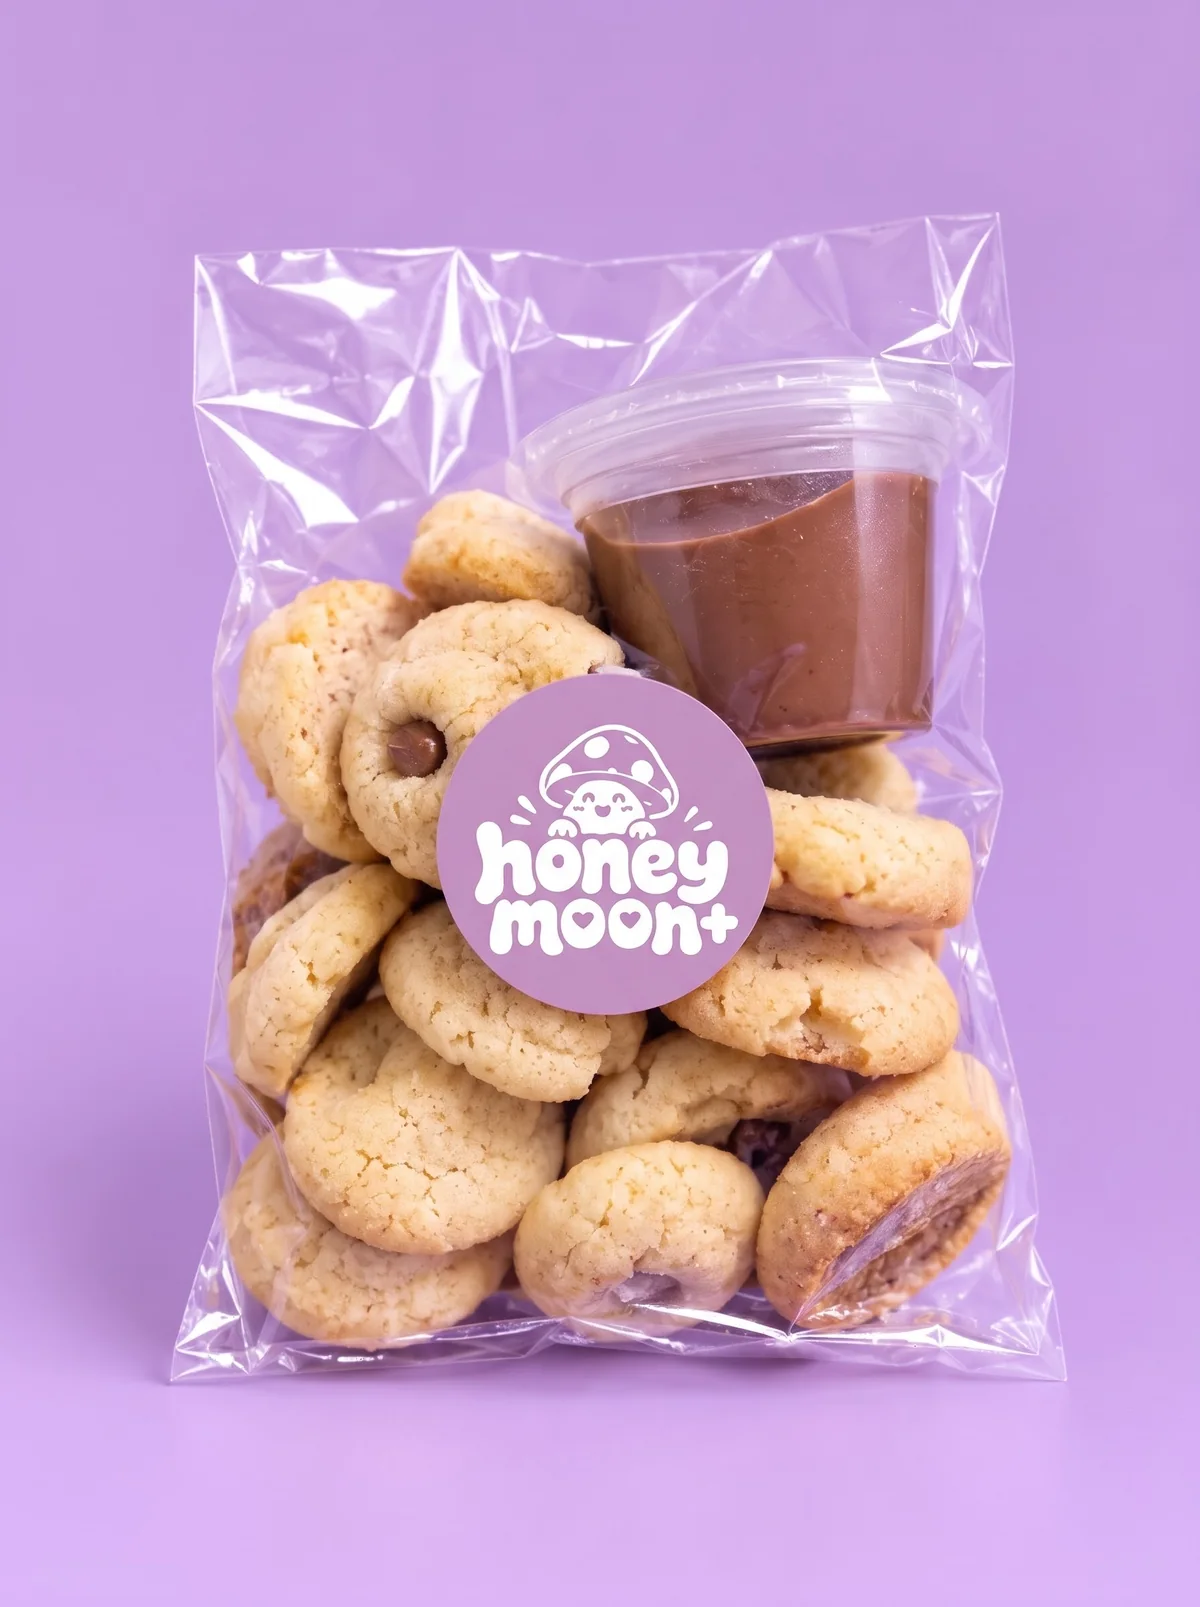
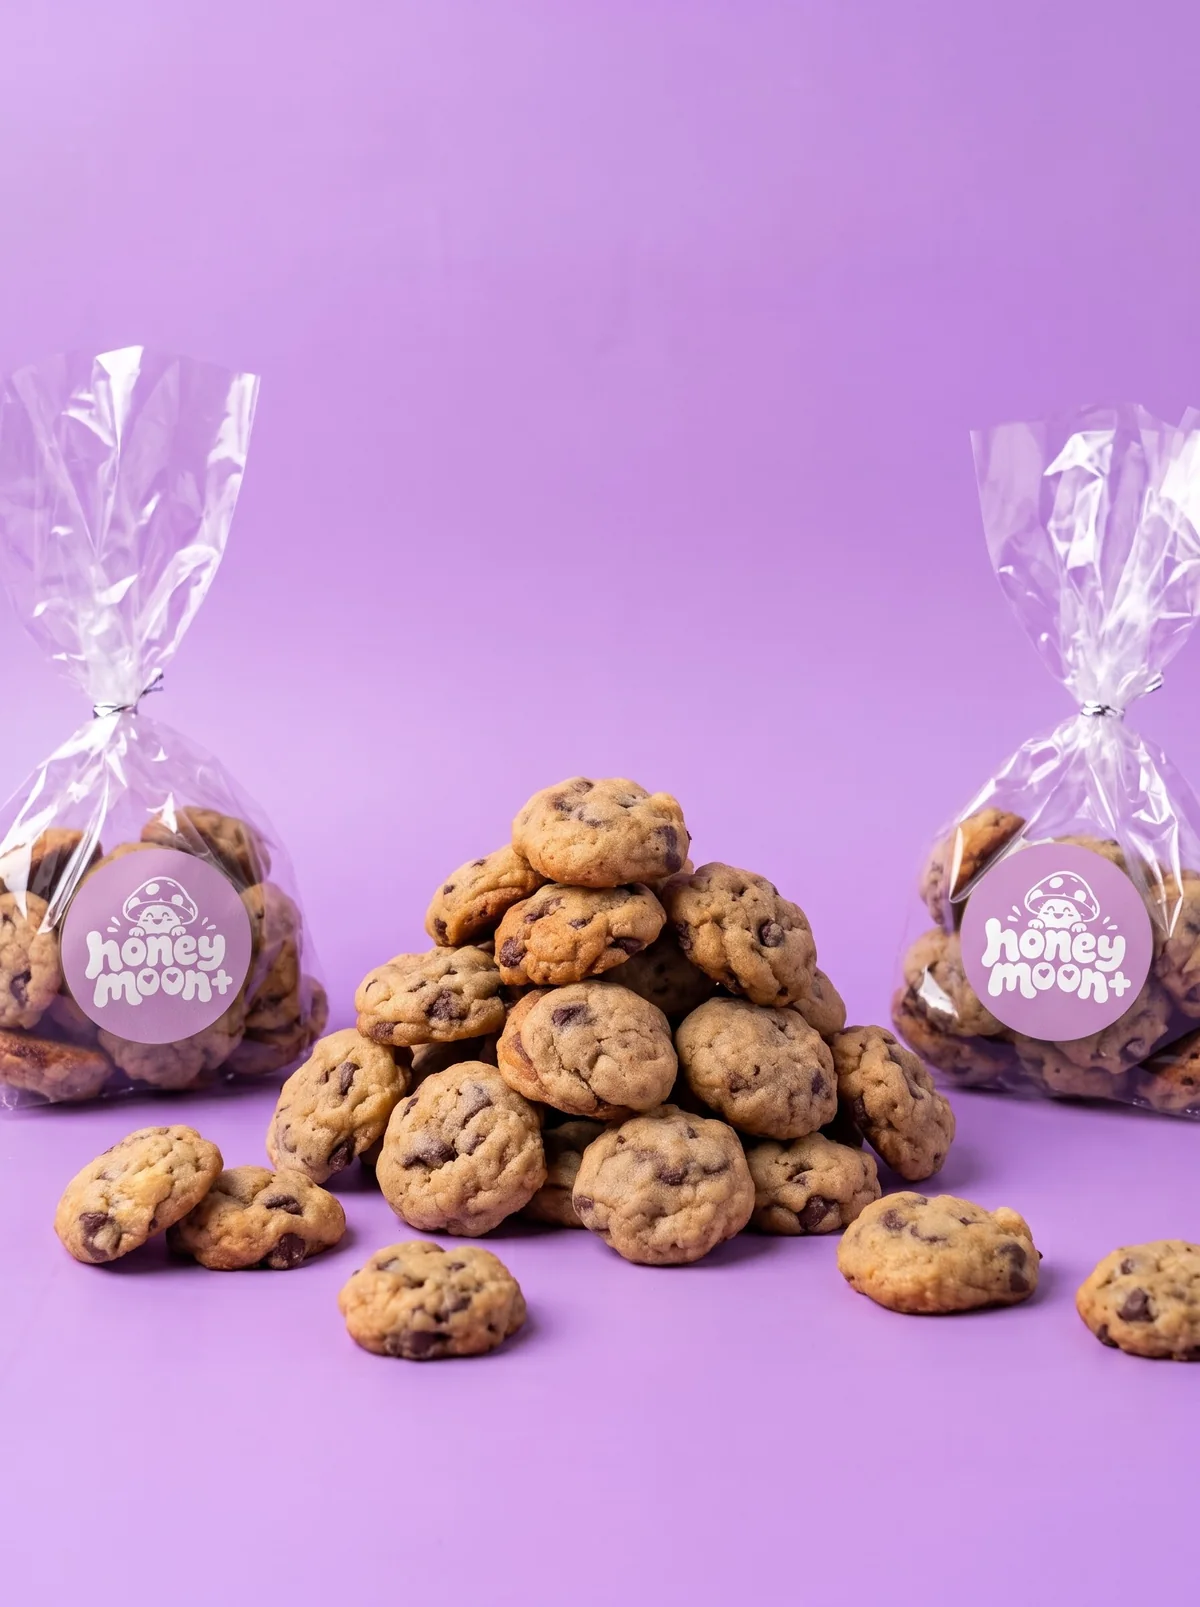
Fotos nuevas de galletas y paveé de Milo, mini donas y ajustes en celular (#19)
* Mini donas: dibujo del vaso con 7 donitas; galletas con chocolate tipo Nutella

- Mini donas: la imagen ahora muestra lo que dice la descripción (vaso
  de 12 onz con 7 mini donitas), con donitas glaseadas y chispas como
  las reales, en vertical 4:5 y fondo lila como las fotos. La foto de
  las donitas sueltas queda en assets/img/originales/.
- Galletas: "…en bolsita de 150 g, con un vasito de chocolate tipo
  Nutella." (sale en la foto).

Claude-Session: https://claude.ai/code/session_01GHyyVr5iuHvK63zJVmzS7n

* Fotos en celular: cuadradas, sin cortar el producto y detalle más compacto

- Tarjetas en celular: foto 1:1 (antes 4:5, 458 px de alto): se ve el
  producto completo y el menú queda ~370 px más corto.
- Detalle en celular: foto cuadrada de máx. 280 px, centrada, para que
  tamaños y toppings se vean sin bajar tanto.
- Encuadre por foto (campo `posicion`): vasos de fresas y bolsita de
  galletas sin cortes; por defecto center 60%.
- El dibujo de las mini donas recorta (slice) en vez de dejar franjas.

Claude-Session: https://claude.ai/code/session_01GHyyVr5iuHvK63zJVmzS7n

* Fotos nuevas: galletas en bolsita y paveé de Milo; la foto del paveé cambia con el topping

- galletas-mini.webp: nueva foto (bolsitas con sticker y galletas mini)
- pave-milo.webp: paveé con Untable de Milo, foto de la tarjeta
- eleccion.opciones[].imagen/fotoNota/posicion: al elegir Leche Klim se ve su foto
- originales en assets/img/originales/
[…]

diff --git a/assets/js/illustrations.js b/assets/js/illustrations.js
@@ -109,30 +109,57 @@
       </g>`;
   }
 
-  /* ---------- Vaso de 12 onz con 7 mini donitas ---------- */
-  function donas(c, uid) {
-    const vasoPath = "M62 84 L178 84 L166 184 Q120 192 74 184 Z";
-    const dona = (x, y, s, rot = 0) => `
-      <g transform="translate(${x} ${y}) rotate(${rot}) scale(${s})">
-        <ellipse rx="20" ry="13" fill="#e6a861" stroke="${K}" stroke-width="3.4"/>
-        <path d="M-16 -2 C-17 -11 17 -11 16 -2 C15 2 12 1 10 3 C8 6 6 2 3 4 C0 7 -2 3 -5 5 C-8 7 -10 2 -12 3 C-15 4 -16 1 -16 -2Z" fill="#fff4f1" stroke="${K}" stroke-width="2" stroke-linejoin="round"/>
-        <ellipse rx="5.5" ry="3.2" cy="-3.5" fill="#e6a861" stroke="${K}" stroke-width="2"/>
-        <ellipse rx="3.4" ry="1.6" cy="-3" fill="#c98a3c"/>
-      </g>`;
-    // 3 arriba asomadas + 4 dentro del vaso transparente = 7
-    const dentro = [[100, 161, -6], [141, 160, 4], [102, 122, 5], [139, 121, -6]];
-    const arriba = [[94, 78, -14], [146, 78, 14], [120, 66, 0]];
+  /* ---------- Vaso de 12 onz con 7 mini donitas (vertical 4:5, como las fotos) ---------- */
+  // Mini donitas glaseadas como las de Honeymoon: rosado, blanco y chocolate,
+  // con chispas de colores, chispas de chocolate o confites
+  const GLASEADOS = { rosa: "#f48fb1", blanco: "#fff6ef", choco: "#6b3a22" };
+  const CHISPAS = ["#ff5252", "#ffd740", "#40c4ff", "#69f0ae", "#ff80ab", "#b388ff"];
+  const PUNTOS_DONA = [[-13, -6, 20], [-8, -10, -30], [-1, -11, 60], [6, -10, 10], [12, -7, -45], [15, -3, 30], [-15, -1, 70], [-10, 2, -15], [9, 2, 40], [3, 3, -60]];
+  function donita(x, y, s, r, glaseado, adorno) {
+    const chispas = PUNTOS_DONA.map(([a, b, g], i) => {
+      if (adorno === "confites") return i % 2 ? "" : `<circle cx="${a}" cy="${b}" r="2.4" fill="${CHISPAS[i % CHISPAS.length]}" stroke="${K}" stroke-width=".6"/>`;
+      const color = adorno === "choco" ? "#3b1f12" : CHISPAS[i % CHISPAS.length];
+      return `<rect x="${a - 2.4}" y="${b - .8}" width="4.8" height="1.6" rx=".8" fill="${color}" transform="rotate(${g} ${a} ${b})"/>`;
+    }).join("");
     return `
-      ${decoracion()}
-      <defs><clipPath id="cp-${uid}"><path d="${vasoPath}"/></clipPath></defs>
+      <g data-dona transform="translate(${x} ${y}) rotate(${r}) scale(${s})">
+        <ellipse rx="22" ry="14" fill="#e3ad6c" stroke="${K}" stroke-width="2.6"/>
+        <path d="M-19 -3 C-20 -13 20 -13 19 -3 C18 2 14 1 12 4 C10 7 7 2 4 5 C1 8 -2 3 -5 5 C-8 8 -11 2 -14 4 C-17 4 -19 1 -19 -3Z"
+          fill="${GLASEADOS[glaseado]}" stroke="${K}" stroke-width="1.8" stroke-linejoin="round"/>
+        ${chispas}
+        <ellipse cy="-3" rx="6.5" ry="3.8" fill="#c98a4c" stroke="${K}" stroke-width="1.8"/>
+        <path d="M-12 -8 q4 -3 9 -3" stroke="#fff" stroke-width="1.6" stroke-linecap="round" fill="none" opacity=".6"/>
+      </g>`;
+  }
+  function donas(c, uid) {
+    const vaso = "M56 136 L184 136 L168 262 Q120 271 72 262 Z";
+    // 4 dentro del vaso transparente + 3 asomadas arriba = 7
+    const dentro = [[98, 228, -6, "rosa", "chispas"], [142, 226, 5, "blanco", "choco"], [96, 182, 4, "blanco", "chispas"], [144, 181, -5, "rosa", "confites"]];
+    const arriba = [[86, 126, -18, "blanco", "chispas"], [154, 126, 17, "blanco", "confites"], [120, 108, 0, "rosa", "chispas"]];
+    return `
+      <defs>
+        <linearGradient id="fondo-${uid}" x1="0" y1="0" x2="0" y2="1"><stop offset="0" stop-color="#c09cdd"/><stop offset="1" stop-color="#dcc1f4"/></linearGradient>
+        <clipPath id="cp-${uid}"><path d="${vaso}"/></clipPath>
+      </defs>
+      <rect width="240" height="300" fill="url(#fondo-${uid})"/>
+      <g transform="translate(-18 -54) scale(1.15)">
+      <ellipse cx="122" cy="268" rx="66" ry="9" fill="#4a1f48" opacity=".16"/>
       <g clip-path="url(#cp-${uid})">
-        <rect x="56" y="84" width="130" height="108" fill="#fff" fill-opacity=".6"/>
-        ${dentro.map(([x, y, r]) => dona(x, y, 1.05, r)).join("")}
-        <path d="M80 96 L88 176" stroke="#fff" stroke-width="6" stroke-linecap="round" opacity=".75"/>
+        <rect x="50" y="136" width="140" height="140" fill="#fff" fill-opacity=".45"/>
+        ${dentro.map(([x, y, r, g, d]) => donita(x, y, 1.15, r, g, d)).join("")}
       </g>
-      ${arriba.map(([x, y, r]) => dona(x, y, 1, r)).join("")}
-      <path d="${vasoPath}" fill="none" stroke="${K}" stroke-width="4" stroke-linejoin="round"/>
-      <rect x="58" y="82" width="124" height="9" rx="4.5" fill="#fffdf7" stroke="${K}" stroke-width="3.4"/>`;
+      ${arriba.map(([x, y, r, g, d]) => donita(x, y, 1.12, r, g, d)).join("")}
+      <path d="${vaso}" fill="#fff" fill-opacity=".14" stroke="${K}" stroke-width="3.4" stroke-linejoin="round"/>
+      <path d="M74 152 L86 252" stroke="#fff" stroke-width="6" stroke-linecap="round" opacity=".7"/>
+      <rect x="52" y="131" width="136" height="10" rx="5" fill="#fffdf7" fill-opacity=".92" stroke="${K}" stroke-width="3"/>
+      <g transform="translate(120 206)">
+        <circle r="23" fill="#c48ebf" stroke="#fff" stroke-width="2.5"/>
+        <path d="M-14 1 C-14 -14 14 -14 14 1 Z" fill="#fff"/>
+        <circle cx="-6" cy="-7" r="2.4" fill="#c48ebf"/><circle cx="4" cy="-9" r="2" fill="#c48ebf"/><circle cx="9" cy="-3" r="1.8" fill="#c48ebf"/>
+        <rect x="-8" y="0" width="16" height="12" rx="5" fill="#fff"/>
+        <path d="M-4.5 4.5 q1.5 -1.6 3 0 M1.5 4.5 q1.5 -1.6 3 0 M-2 8 q2 2 4 0" stroke="#c48ebf" stroke-width="1.3" fill="none" stroke-linecap="round"/>
+      </g>
+      </g>`;
   }
 
   /* ---------- Íconos de toppings (para la tarjeta y el modal) ---------- */
@@ -187,6 +214,9 @@
       donas: () => donas(cfg, uid)
     };
     const cuerpo = (dibujos[cfg.tipo] || dibujos.pave)();
-    return `<svg viewBox="0 0 240 200" xmlns="http://www.w3.org/2000/svg" role="img" aria-hidden="true" focusable="false">${cuerpo}</svg>`;
+    const vista = cfg.tipo === "donas" ? "0 0 240 300" : "0 0 240 200"; // las donas, en vertical como las fotos
+    // Las donas traen su propio fondo: recortan en vez de dejar franjas si el marco es más bajo
+    const ajuste = cfg.tipo === "donas" ? ' preserveAspectRatio="xMidYMid slice"' : "";
+    return `<svg viewBox="${vista}"${ajuste} xmlns="http://www.w3.org/2000/svg" role="img" aria-hidden="true" focusable="false">${cuerpo}</svg>`;
   };
 })();

diff --git a/assets/js/menu.js b/assets/js/menu.js
@@ -8,14 +8,17 @@
               (foto de ese tamaño: en el detalle, la foto cambia al elegirlo).
    - adiciones: nombre del grupo de HM_ADICIONES que acepta (toppings con precio y cantidad;
                 cada topping tiene `max` y, opcional, `limite`, `icono` y `foto`)
-   - eleccion: { titulo, detalle, opciones: [{ id, nombre, ilustracion? }] } → el cliente elige
-               una opción incluida en el precio (ej. el topping del paveé). Si la opción trae
-               `ilustracion`, el dibujo cambia al elegirla.
+   - eleccion: { titulo, detalle, opciones: [{ id, nombre, imagen?, fotoNota?, posicion?, ilustracion? }] }
+               → el cliente elige una opción incluida en el precio (ej. el topping del paveé).
+               Si la opción trae `imagen`, la foto del detalle cambia al elegirla (si no, se usa
+               la foto del producto).
    - encargo: true si todo el producto se hace por encargo (ver diasEncargo en config.js)
    - temporada: { desde: "MM-DD", hasta: "MM-DD", texto } → solo se puede pedir en esas fechas
    - ilustracion: dibujo generado (tipo, colores, topping)  ó  imagen: ruta a una foto
    - fotoReferencia: true muestra la etiqueta "Foto de referencia" sobre la imagen;
      fotoNota: "texto" muestra ese texto en su lugar (ej. qué topping sale en la foto)
+   - posicion (producto o tamaño): encuadre de la foto si el producto no queda centrado,
+     ej. "center 70%" (por defecto "center 60%")
    - notaPlaceholder: texto de ejemplo para la nota del producto
    - destacado: true para mostrarlo en una tarjeta ancha (foto a un lado)
    - disponible: false para mostrarlo como "Próximamente"
@@ -45,12 +48,13 @@ window.HM_ADICIONES = {
       nombre: "Fresas con crema",
       descripcion: "🍓Capas de nuestra crema suave y cremosa, fresas frescas, glaseado de fresa, dulce de leche, leche condensada y galleta Oreo. ¡Una combinación dulce e irresistible que puedes personalizar con tu topping favorito!",
       tamanos: [
-        { id: "9oz", nombre: "9 onz", detalle: "Pequeña", precio: 14000, imagen: "assets/img/fresas-9onz.webp" },
-        { id: "12oz", nombre: "12 onz", detalle: "Mediana", precio: 18000, imagen: "assets/img/fresas-12onz.webp" }
+        { id: "9oz", nombre: "9 onz", detalle: "Pequeña", precio: 14000, imagen: "assets/img/fresas-9onz.webp", posicion: "center 70%" },
+        { id: "12oz", nombre: "12 onz", detalle: "Mediana", precio: 18000, imagen: "assets/img/fresas-12onz.webp", posicion: "center 70%" }
       ],
       adiciones: "fresas",
       destacado: true, // tarjeta ancha, primera del menú
       imagen: "assets/img/fresas-9onz.webp", // foto real (vaso de 9 onz)
+      posicion: "center 70%",
       fondo: FONDO
     },
     {
@@ -63,26 +67,29 @@ window.HM_ADICIONES = {
         detalle: "Topping incluido: Oreo, Untable de Milo o Leche Klim",
         opciones: [
           { id: "oreo", nombre: "Oreo" },
-          { id: "milo", nombre: "Untable de Milo" },
-          { id: "klim", nombre: "Leche Klim" }
+          { id: "milo", nombre: "Untable de Milo", imagen: "assets/img/pave-milo.webp", fotoNota: "Foto: con topping de Untable de Milo", posicion: "center 62%" },
+          { id: "klim", nombre: "Leche Klim", imagen: "assets/img/pave-klim.webp", fotoNota: "Foto: con topping de leche Klim" }
         ]
       },
-      imagen: "assets/img/pave-klim.webp",
-      fotoNota: "Foto: con topping de leche Klim"
+      // Foto de la tarjeta y de las opciones sin foto propia (Oreo)
+      imagen: "assets/img/pave-milo.webp",
+      fotoNota: "Foto: con topping de Untable de Milo",
+      posicion: "center 62%"
     },
     {
       id: "galletas",
       nombre: "Galletas",
-      descripcion: "Galletas mini con chips de chocolate, en bolsita de 150 g.",
+      descripcion: "Galletas mini con chips de chocolate, en bolsita de 150 g, con un vasito de chocolate tipo Nutella.",
       tamanos: [{ id: "bolsita", nombre: "Bolsita 150 g", detalle: "Mini chips de chocolate", precio: 15000 }],
-      imagen: "assets/img/galletas-mini.webp"
+      imagen: "assets/img/galletas-mini.webp", // bolsitas con el sticker y galletas mini
+      posicion: "center 62%"
     },
     {
       id: "mini-donas",
       nombre: "Mini donas",
       descripcion: "Vaso de 12 onz con 7 mini donitas.",
       tamanos: [{ id: "vaso", nombre: "Vaso 12 onz", detalle: "7 mini donitas", precio: 15000 }],
-      imagen: "assets/img/mini-donas.webp"
+      ilustracion: { tipo: "donas", fondo: "#cdaee8" } // dibujo del vaso con las 7 donitas (sin foto real aún)
     }
   ];
 })();

diff --git a/assets/js/app.js b/assets/js/app.js
@@ -113,13 +113,16 @@
   // o, sin foto, el dibujo (el de la opción elegida, si la hay)
   function imagenDe(p, opcion, tamano) {
     const t = tamano ? p.tamanos.find((x) => x.id === tamano) : null;
-    if (t && t.imagen) return { imagen: t.imagen, nota: t.fotoNota || "" };
-    if (p.imagen) return { imagen: p.imagen, nota: p.fotoNota || (p.fotoReferencia ? "Foto de referencia" : "") };
+    if (t && t.imagen) return { imagen: t.imagen, nota: t.fotoNota || "", pos: t.posicion };
+    const o = getOpcion(p, opcion);
+    if (o && o.imagen) return { imagen: o.imagen, nota: o.fotoNota || "", pos: o.posicion };
+    if (p.imagen) return { imagen: p.imagen, nota: p.fotoNota || (p.fotoReferencia ? "Foto de referencia" : ""), pos: p.posicion };
     return { ilustracion: ilustracionDe(p, opcion) };
   }
   function media(p, opcion, tamano) {
     const v = imagenDe(p, opcion, tamano);
-    return v.imagen ? `<img src="${esc(v.imagen)}" alt="" loading="lazy">` : window.HM_ILUSTRACION(v.ilustracion);
+    if (!v.imagen) return window.HM_ILUSTRACION(v.ilustracion);
+    return `<img src="${esc(v.imagen)}" alt="" loading="lazy"${v.pos ? ` style="object-position:${esc(v.pos)}"` : ""}>`;
   }
   function etiquetaFoto(p, opcion, tamano) {
     const v = imagenDe(p, opcion, tamano);
@@ -511,6 +514,7 @@
     pintarMedia();
     // Precarga las fotos de los otros tamaños: al cambiar de tamaño la foto cambia sin espera
     p.tamanos.forEach((t) => { if (t.imagen) new Image().src = t.imagen; });
+    if (p.eleccion) p.eleccion.opciones.forEach((o) => { if (o.imagen) new Image().src = o.imagen; });
     pintarToppings();
     $("#productoNota").value = "";
     $("#productoNota").placeholder = p.notaPlaceholder || "Ej: alguna indicación para tu pedido…";

diff --git a/assets/css/styles.css b/assets/css/styles.css
@@ -275,7 +275,7 @@ h1, h2, h3, h4, .hm-display {
   padding: .15rem .5rem; border-radius: 999px; letter-spacing: .02em;
 }
 /* Fotos verticales de producto: el producto queda en la mitad baja, así nunca se corta el vaso */
-.hm-card-media img, .hm-product-media img, .hm-cart-thumb img { object-position: center 72%; }
+.hm-card-media img, .hm-product-media img, .hm-cart-thumb img { object-position: center 60%; }
 .hm-card .hm-ref { top: .6rem; bottom: auto; } /* abajo la tapa la etiqueta del nombre */
 .hm-card-body { padding: 0 1.15rem 1.2rem; display: flex; flex-direction: column; flex: 1; }
 /* Nombre como etiqueta del menú impreso, montada sobre la foto */
@@ -646,10 +646,10 @@ body.has-cart .hm-fab-wa { bottom: 5.25rem; }
   .hm-sticker { font-size: .76rem; padding: .35rem .6rem; }
   .hm-sticker.s1 { left: -10%; }
   .hm-sticker.s2 { right: -10%; }
-  .hm-card-media { aspect-ratio: 4 / 5; }
+  .hm-card-media { aspect-ratio: 1 / 1; } /* en celular, cuadrada: el producto completo sin tarjetas tan largas */
   .hm-card { outline: 0; }
   .hm-card:focus-visible { outline: 3px solid var(--hm-plum); outline-offset: 3px; }
-  .hm-product-media { aspect-ratio: 4 / 5; }
+  .hm-product-media { aspect-ratio: 1 / 1; max-width: 280px; margin-inline: auto; } /* deja ver tamaños y toppings */
   .hm-card-note { font-size: .72rem; margin: -.2rem 0 .5rem; }
   #productoAgregar { white-space: nowrap; }
 }

diff --git a/README.md b/README.md
@@ -43,10 +43,12 @@ En `assets/js/menu.js`:
   - `tamanos`: con precio y, opcional, `detalle` ("Pequeña", "7 mini donitas") y `encargo: true`.
   - `adiciones`: nombre del grupo de toppings que acepta (el cliente suma porciones con + y −; el modal bloquea lo que no cumple los límites y explica por qué).
   - `destacado: true`: tarjeta ancha, con la foto al lado en computador (hoy, Fresas con crema).
-  - `eleccion`: una opción incluida en el precio que el cliente debe elegir, como el topping del paveé (Galleta Oreo, Galleta Milo o Leche Klim). Si la opción trae `ilustracion`, el dibujo cambia al elegirla.
+  - `eleccion`: una opción incluida en el precio que el cliente debe elegir, como el topping del paveé (Oreo, Untable de Milo o Leche Klim). Si la opción trae `imagen` (y opcional `fotoNota` y `posicion`), la foto del detalle cambia al elegirla; si no, se usa la foto del producto.
   - `ilustracion` (dibujo SVG de `illustrations.js`: `pave`, `bolsita`, `donas`) o `imagen` (foto). Para fotos reales, guarda la imagen en `assets/img/` y usa `imagen: "assets/img/mi-foto.webp"`. Las fotos de producto son verticales (3:4, fondo lila) y van en WebP de 1200 px de ancho para que carguen rápido; las originales quedan en `assets/img/originales/`.
   - Un tamaño puede tener su propia `imagen`: en el detalle la foto cambia al elegirlo (Fresas con crema: 9 onz y 12 onz).
-  - `fotoNota` (opcional): texto sobre la foto, por ejemplo qué topping sale (Paveé: "Foto: con topping de leche Klim").
+  - `posicion` (opcional, producto o tamaño): encuadre de la foto, ej. `"center 70%"`, para que el producto no se corte en los marcos más bajos (en celular las fotos van cuadradas).
+  - `fotoNota` (opcional): texto sobre la foto, por ejemplo qué topping sale (Paveé: "Foto: con topping de Untable de Milo"; la opción Leche Klim muestra su propia foto).
+  - Mini donas usan el dibujo `donas` (vaso de 12 onz con 7 mini donitas, vertical como las fotos) hasta tener una foto real del vaso; la foto de las donitas sueltas está en `assets/img/originales/`.
   - `encargo: true`: todo el producto se hace por encargo.
   - `nombreCompleto` (opcional): nombre para el carrito y WhatsApp si el de la tarjeta es corto.
   - `notaPlaceholder`: texto de ejemplo para la nota del producto.
